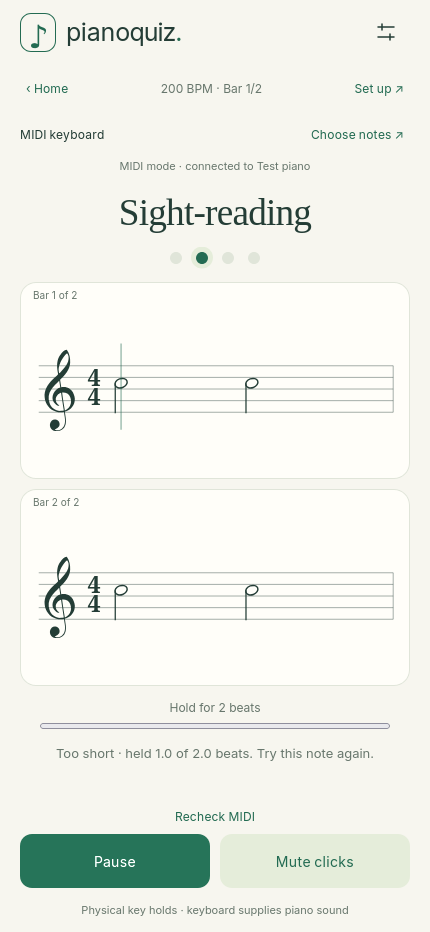
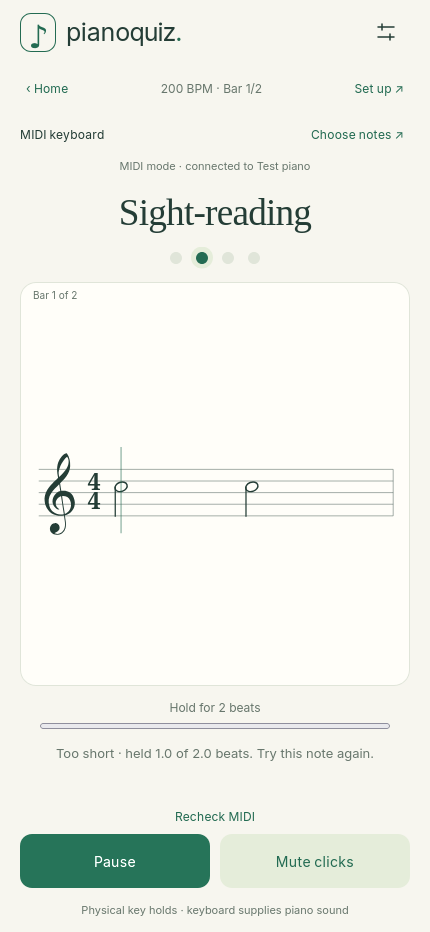
fix: show one bar at a time

Changed region(s): [[0.0907, 0.3734, 0.9372, 0.6845]]

diff --git a/styles.css b/styles.css
@@ -434,7 +434,6 @@ body,body *{-webkit-user-select:none;user-select:none;-webkit-touch-callout:none
  #hold-coach{display:flex;align-items:center;gap:10px;max-width:none;font-size:10px}
  #hold-progress{margin:0;flex:1}
 }
-:root[data-short-viewport] #exercise-score .measure+.measure{display:none}
 :root[data-short-viewport] #training-screen:not([data-activity=metronome]) .training-heading{min-height:40px}
 
 /* Keep the note choices scrollable while Save stays in reach. */
@@ -470,7 +469,6 @@ body,body *{-webkit-user-select:none;user-select:none;-webkit-touch-callout:none
  .dialog-actions{padding-top:6px}
 }
 @media(orientation:landscape) and (max-height:500px){
- #exercise-score .measure+.measure{display:none}
  #training-input-row{display:flex;align-items:center;gap:10px}
  #training-input-status{flex:1;margin:0;text-align:right}
  #training-sight-tools{flex:1}
@@ -481,5 +479,4 @@ body,body *{-webkit-user-select:none;user-select:none;-webkit-touch-callout:none
  #training-screen:not([data-activity=metronome]) #training-body{gap:6px}
  #training-touchpad{height:60px;margin-bottom:6px}
  #training-screen:not([data-activity=metronome]) #training-footnote{min-height:28px;font-size:10px}
- #exercise-score .measure+.measure{display:none}
 }

diff --git a/js/score.js b/js/score.js
@@ -43,5 +43,5 @@ export function renderMeasure(phrase, bar, results = new Map(), current = -1) {
 }
 
 export function renderScore(phrase, bar, results, current) {
-  return [bar,bar+1].filter(index=>index<phrase.bars).map(index=>renderMeasure(phrase,index,results,current)).join('');
+  return renderMeasure(phrase,bar,results,current);
 }

diff --git a/docs/VERIFICATION.md b/docs/VERIFICATION.md
@@ -3,26 +3,26 @@
 Published and tested on 2026-11-07 (Europe/Warsaw).
 
 - Play: **https://piano-quiz.pages.dev/**
-- Release: `ac33e1e774c0e1`
-- Production deployment: `c7a5f5f4-38b3-427f-85ab-5b874eae57f1`
-- Immutable URL: https://c7a5f5f4.piano-quiz.pages.dev/
+- Release: `a8fde080222148`
+- Production deployment: `a64fde56-aa66-413e-a149-c13caa294694`
+- Immutable URL: https://a64fde56.piano-quiz.pages.dev/
 - Repository: https://github.com/Listwas/piano-quiz
 
 ## Latest UI update
 
-Release `ac33e1e774c0e1` removes the input selector and status row from the active
-Rhythm screen. Touch/MIDI selection stays on Home, leaving more room for notation.
+Release `a8fde080222148` shows exactly one bar at a time in Rhythm and Sight-reading,
+on every screen size. The next bar appears during its existing count-in. Rhythm
+input selection remains on Home.
 
-All 71 unit tests passed. Six focused rhythm scenarios passed in each of Chromium,
-Firefox and WebKit against the local build, covering touch holds, MIDI holds,
-rotation, unavailable MIDI, Home input selection and bar count-ins. The input
-selection scenario also passed on production in all three engines. Reports:
-[local Chromium](training-focused-chromium.json),
-[local Firefox](training-focused-firefox.json),
-[local WebKit](training-focused-webkit.json),
-[live Chromium](live-training-focused-chromium.json),
-[live Firefox](live-training-focused-firefox.json),
-[live WebKit](live-training-focused-webkit.json).
+All 71 unit tests and all 14 training scenarios passed in each of Chromium,
+Firefox and WebKit against the local build. The checks verify one rendered bar,
+rotation, touch and MIDI holds, guided and continuous reading, bar transitions,
+count-ins, reconnects and note-picker controls. Reports:
+[Chromium](training-chromium.json), [Firefox](training-firefox.json),
+[WebKit](training-webkit.json).
+
+The one-bar transition and count-in scenario also passed on production in
+Chromium: [live check](live-training-focused-chromium.json).
 
 ## Full regression baseline
 

diff --git a/README.md b/README.md
@@ -88,8 +88,8 @@ Your keyboard supplies the piano sound; the app supplies the beat.
 Use **Choose notes** directly on Home or above the score to change your melody
 notes. **Save practice** stays visible while you browse the choices.
 
-The current and next bar stay visible. Small screens show the
-current bar to keep the notation readable. You can pause and retry the interrupted
+One bar fills the score area on every screen. The next bar appears during its
+count-in, giving you time to read before playing. You can pause and retry the interrupted
 bar with a fresh count-in. Continuous reading also uses the **Between bars**
 setting: a count-in by default, or no break when you choose **Keep playing**.
 Recent results save on this device and appear on Home.
@@ -97,7 +97,7 @@ Recent results save on this device and appear on Home.
 <details>
 <summary><strong>Take a look at the new practice modes</strong></summary>
 
-<p align="center"><img src="docs/images/metronome-chromium.png" width="260" alt="Metronome with beat lights and tempo controls"> <img src="docs/images/sight-guided-chromium.png" width="260" alt="Guided sight-reading with two bars of music and a hold-length coach"></p>
+<p align="center"><img src="docs/images/metronome-chromium.png" width="260" alt="Metronome with beat lights and tempo controls"> <img src="docs/images/sight-guided-chromium.png" width="260" alt="Guided sight-reading with one bar of music and a hold-length coach"></p>
 
 </details>
 

diff --git a/docs/DEVELOPMENT.md b/docs/DEVELOPMENT.md
@@ -42,7 +42,8 @@ versus expected beat lengths on a bad release. Only unreleased notes are failed
 when the exercise ends. Slightly early first attacks use the same window.
 
 Practice pacing inserts one unscored, full-bar count-in between played bars.
-The session's expected-time and position functions include these gaps, so the
+The score renders only the current bar at every viewport size. The session's
+expected-time and position functions include these gaps, so the
 next measure appears before its first deadline and cannot be marked missed
 during preparation. Resume starts at the interrupted bar without carrying its
 previous gaps. Flow pacing omits gaps; Guided waits on every note as before.

diff --git a/DEPLOY.md b/DEPLOY.md
@@ -6,9 +6,9 @@ Project: `piano-quiz`, production branch `main`, account
 `3bbe51d8973c406839b993e52753a08c`. This is an independent static Pages app;
 the original `random-piano` app is unchanged.
 
-Release `ac33e1e774c0e1` was published as production deployment
-`c7a5f5f4-38b3-427f-85ab-5b874eae57f1`:
-https://c7a5f5f4.piano-quiz.pages.dev/
+Release `a8fde080222148` was published as production deployment
+`a64fde56-aa66-413e-a149-c13caa294694`:
+https://a64fde56.piano-quiz.pages.dev/
 
 ## Publish an update
 
